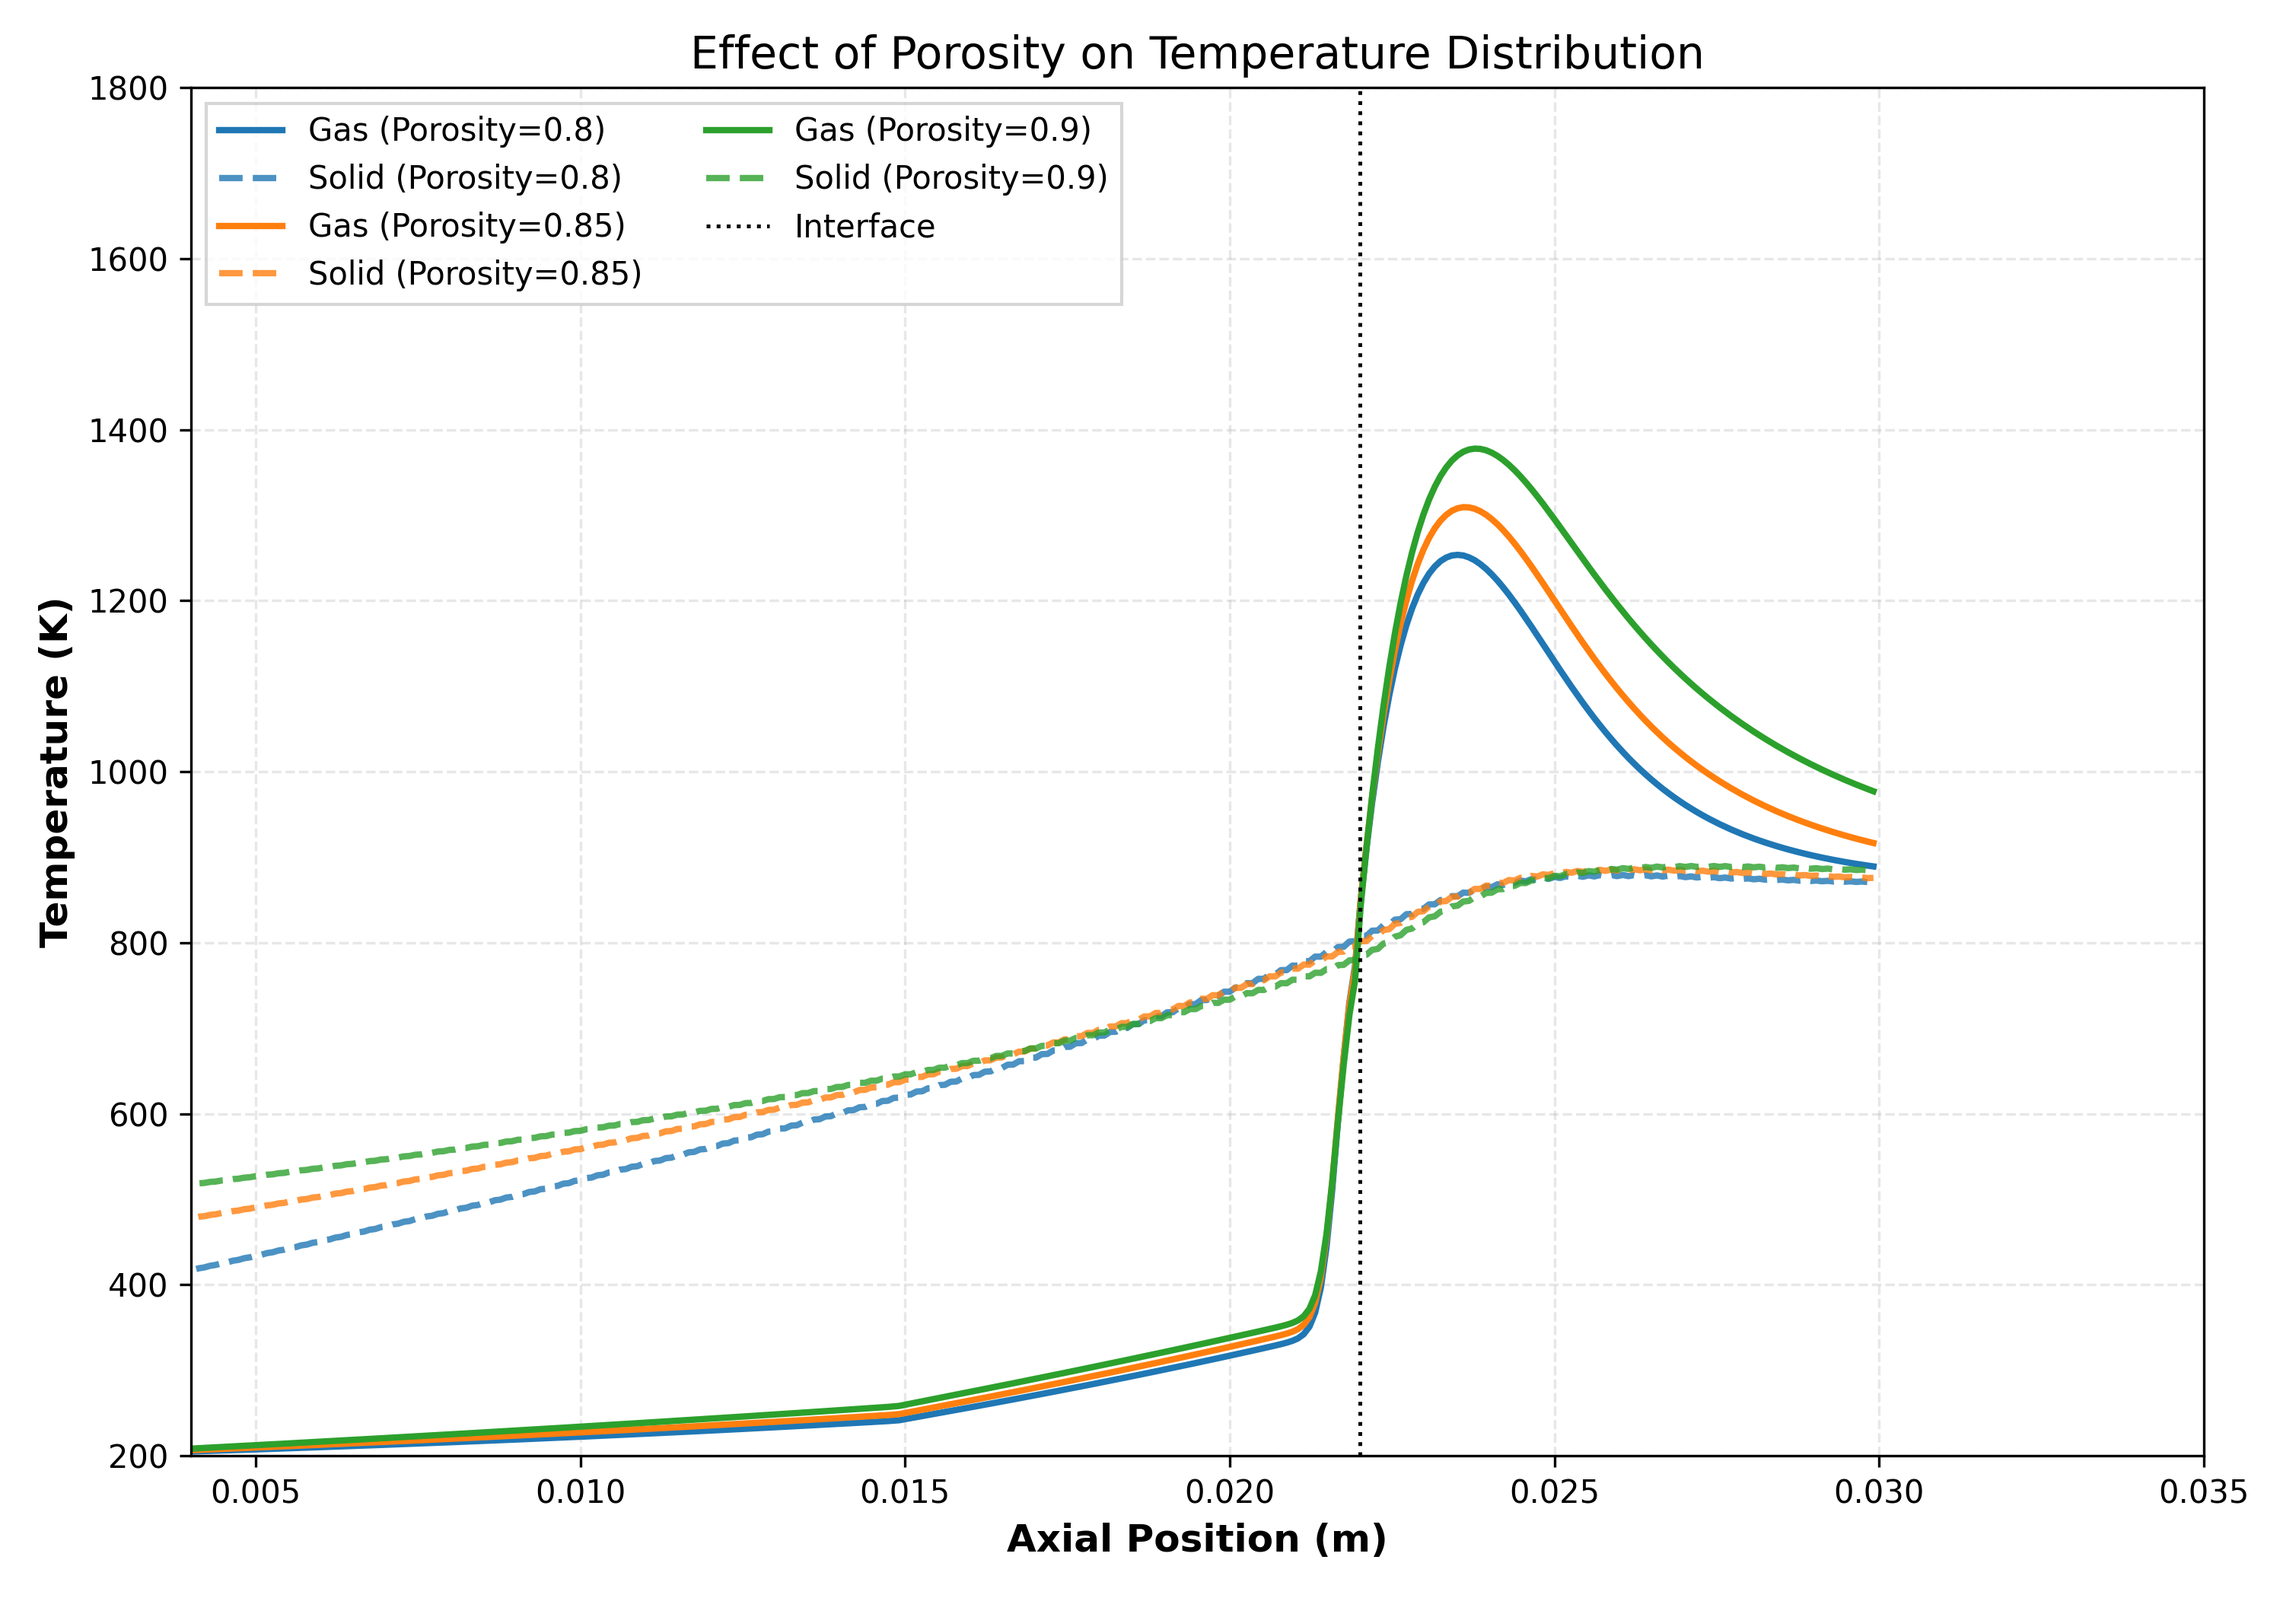
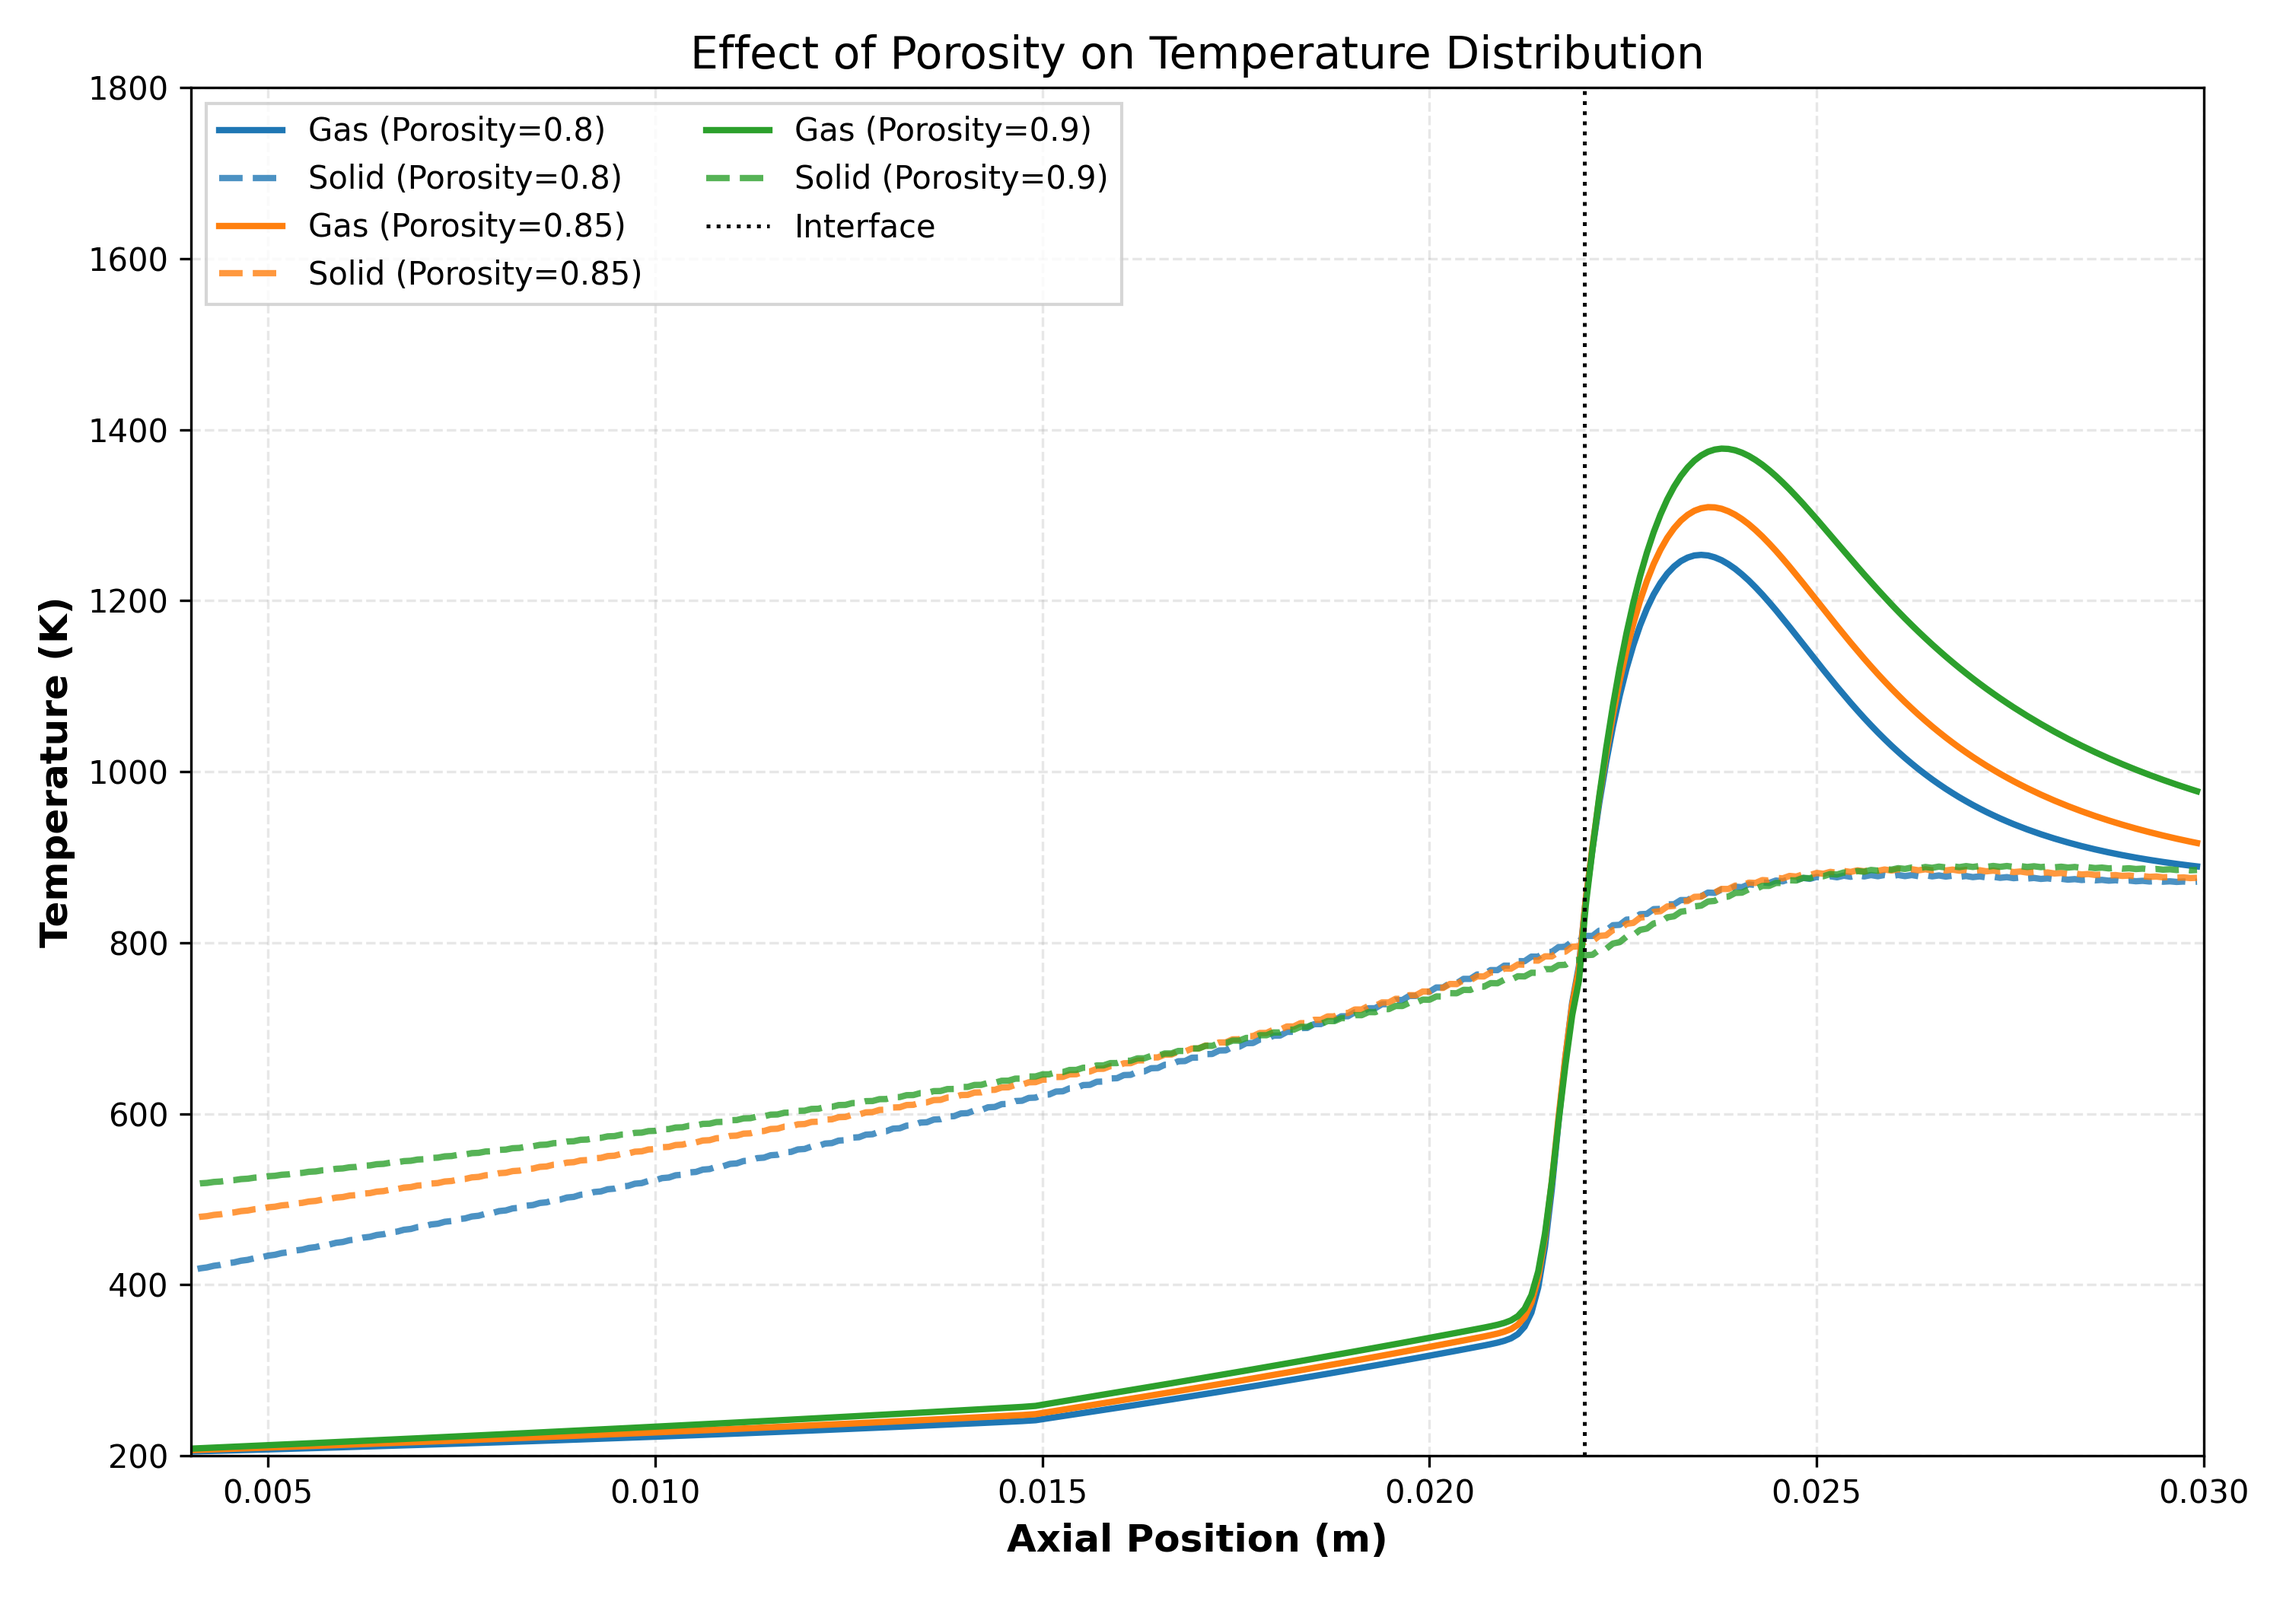
fixed plots

diff --git a/src/parametric_study.py b/src/parametric_study.py
@@ -35,7 +35,7 @@ def plot_sweep(results, param_name, filename):
     plt.legend(loc='upper left', frameon=True, fancybox=False, fontsize=10, ncol=2)
     
     plt.grid(True, which='both', linestyle='--', alpha=0.3)
-    plt.xlim(0.004, 0.035)
+    plt.xlim(0.004, 0.03)
     plt.ylim(200, 1800)
     
     plt.tight_layout()
